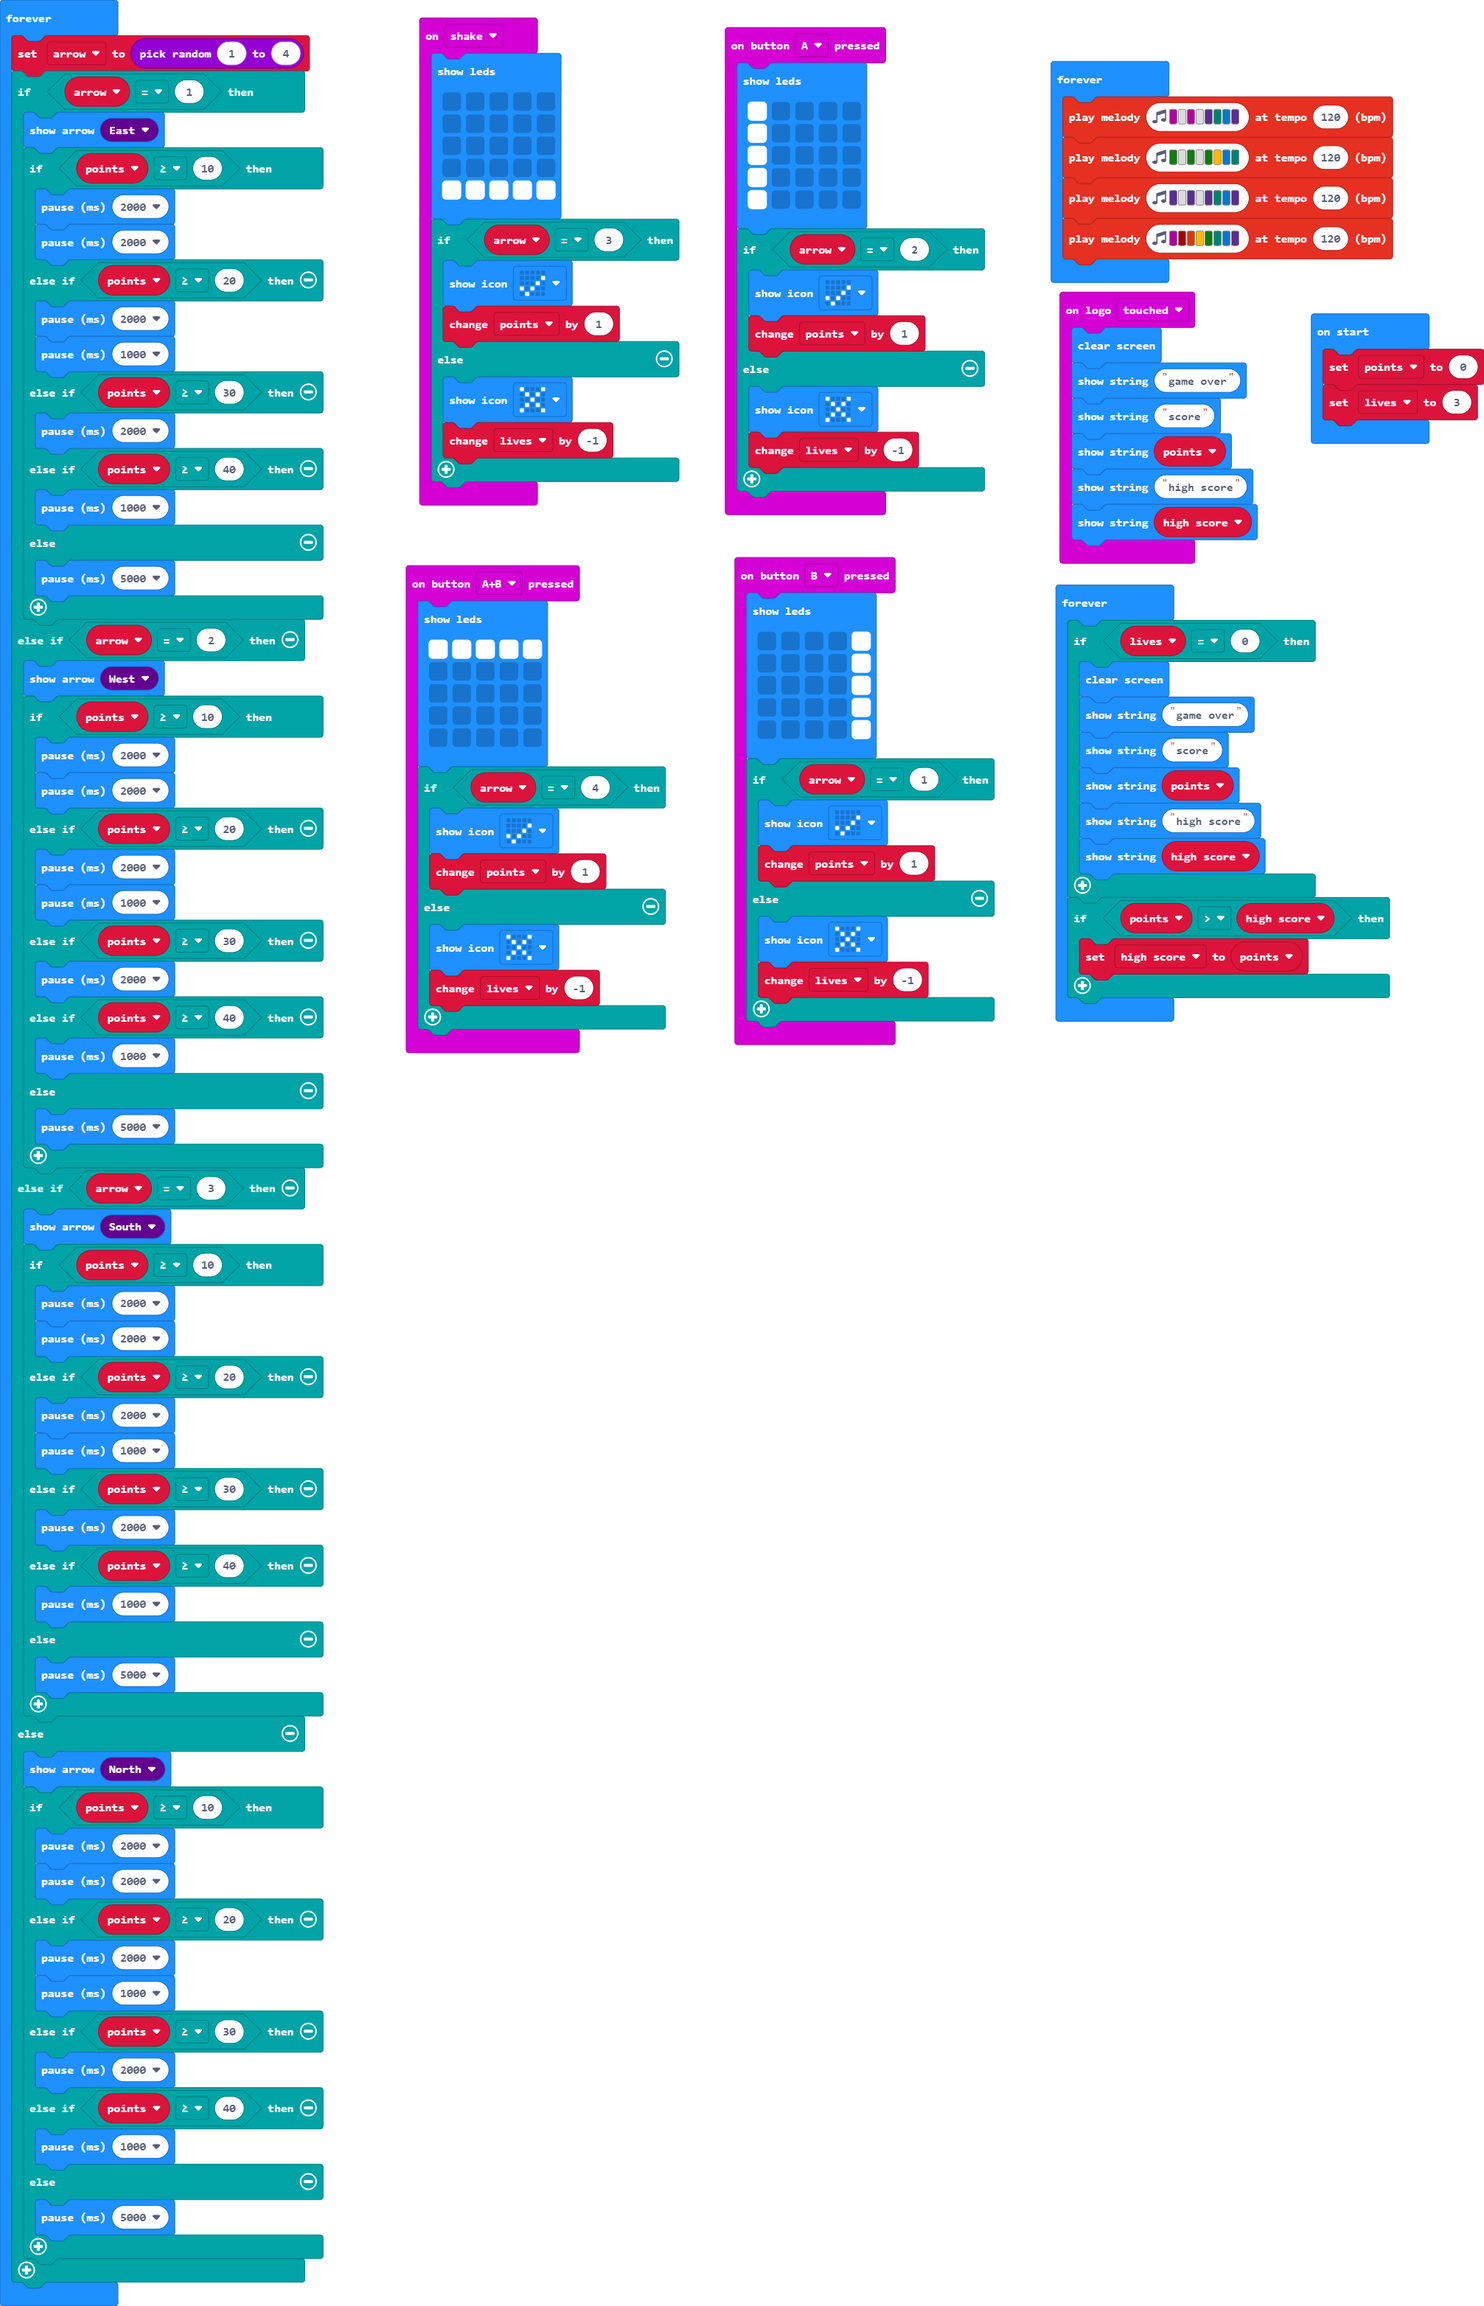
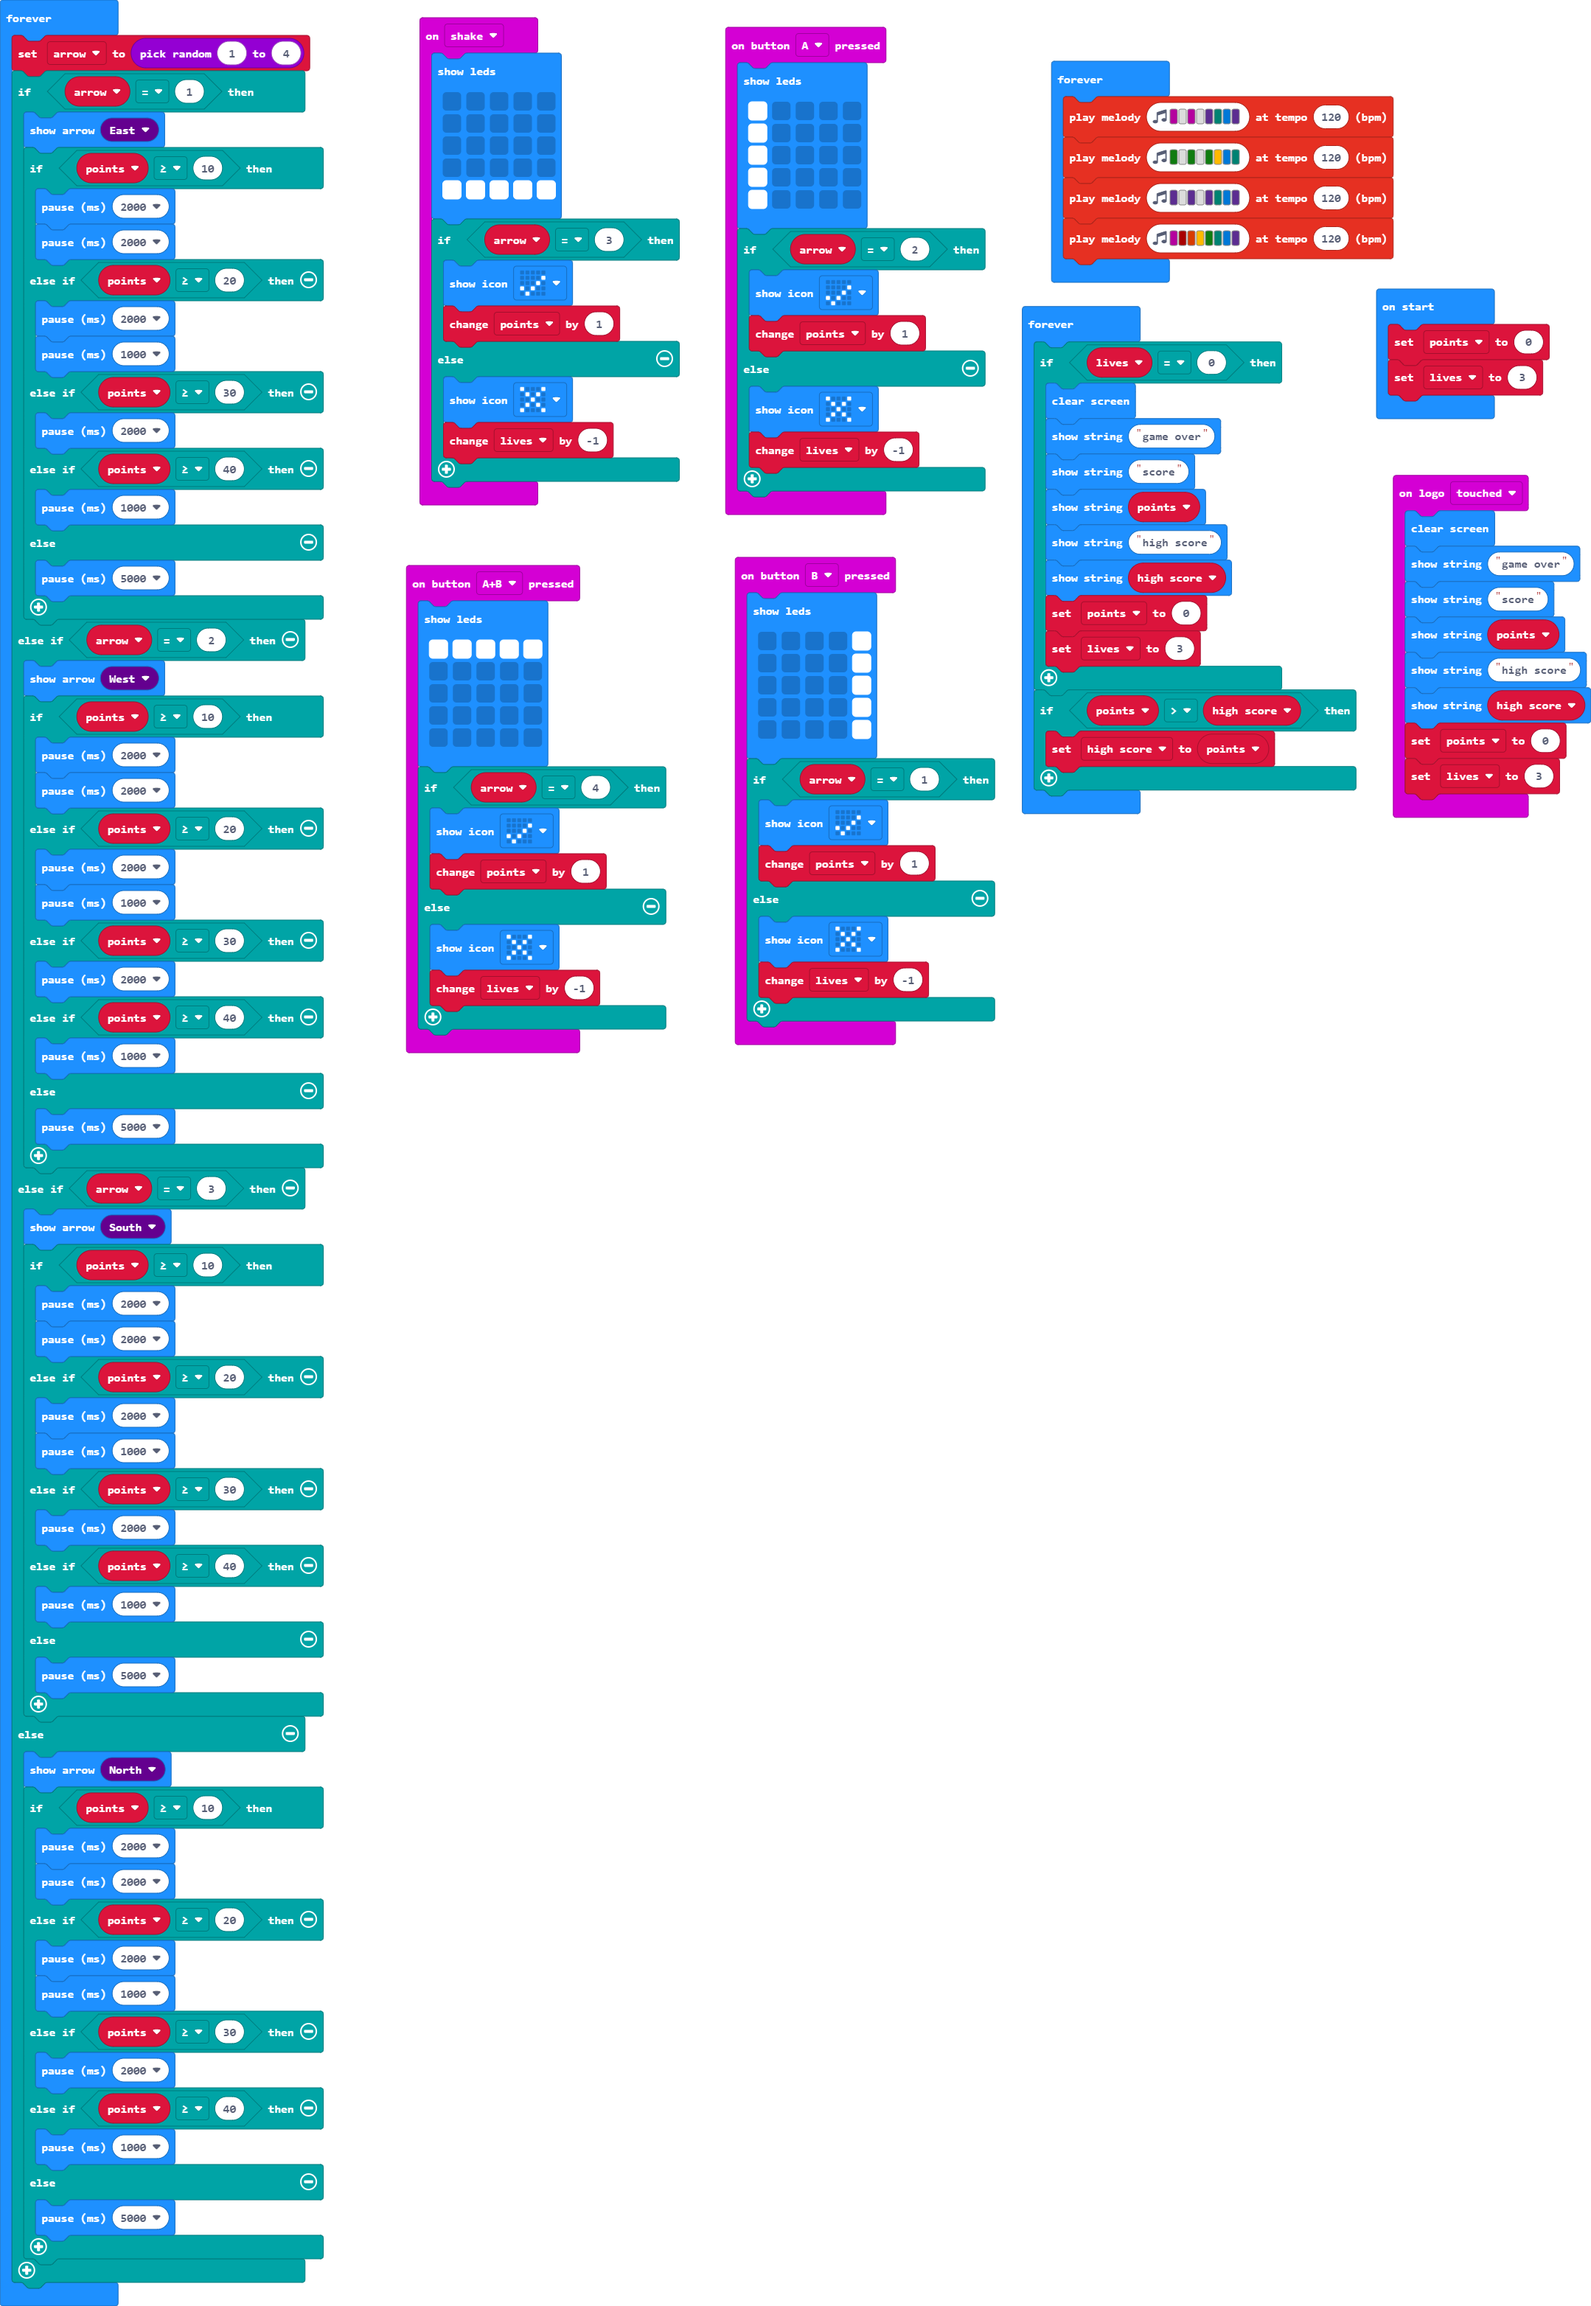
Update main.blocks, main.ts

Changed region(s): [[0.2464, 0.0, 1.0, 0.4652], [0.0, 0.0, 0.2156, 1.0]]

diff --git a/main.ts b/main.ts
@@ -69,12 +69,15 @@ input.onLogoEvent(TouchButtonEvent.Touched, function () {
     basic.showString("" + (points))
     basic.showString("high score")
     basic.showString("" + (high_score))
+    points = 0
+    lives = 3
 })
 let high_score = 0
 let arrow = 0
+let lives = 0
 let points = 0
 points = 0
-let lives = 3
+lives = 3
 basic.forever(function () {
     arrow = randint(1, 4)
     if (arrow == 1) {
@@ -153,6 +156,8 @@ basic.forever(function () {
         basic.showString("" + (points))
         basic.showString("high score")
         basic.showString("" + (high_score))
+        points = 0
+        lives = 3
     }
     if (points > high_score) {
         high_score = points
